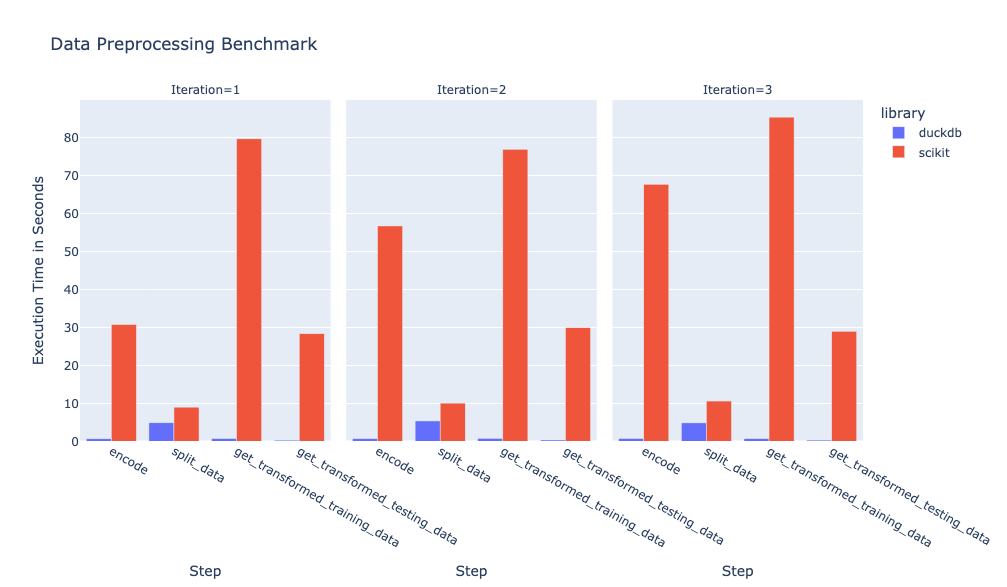
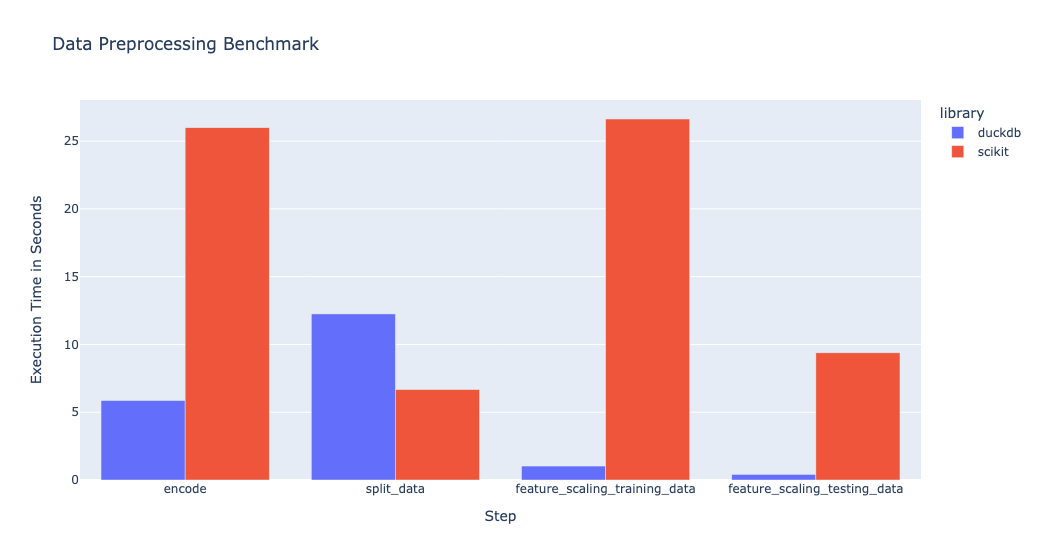
fix: refactor benchmark chapter

diff --git a/_posts/2025-08-15-ml-data-preprocessing.md b/_posts/2025-08-15-ml-data-preprocessing.md
@@ -1,6 +1,6 @@
 ---
 layout: post
-title: "Data Preprocessing for Machine Learning with DuckDB"
+title: "Basic Feature Engineering with DuckDB"
 author: Petrica Leuca
 thumb: "/images/blog/thumbs/duckdb-scikit-learn-2.png"
 image: "/images/blog/thumbs/duckdb-scikit-learn-2.svg"
@@ -459,7 +459,68 @@ Filling missing data should be done before feature scaling.
 
 ## Benchmark
 
-Bringing the above data processing steps together, we have decided to benchmark the execution time against the data processing pipelines with `scikit-learn`. The code is available [in our blog examples repository](https://github.com/duckdb/duckdb-blog-examples/tree/main/ml_data_preprocessing). The figure below shows the execution times on a MacBook Pro with 16 GB:
+Bringing the above data processing steps together, we have decided to benchmark the execution time against the `scikit-learn` data preprocessing pipelines.
+The code is available [in our blog examples repository](https://github.com/duckdb/duckdb-blog-examples/tree/main/ml_data_preprocessing).
+
+In `scikit-learn`, data preprocessing is done through transformers and pipelines.
+A transformer is a class that implements the `fit` and `transform` methods, while a pipeline is a sequence of transformers that are applied to the data in a specific order.
+Unless specified otherwise, each step of the pipeline returns, in numpy arrays, only the result of the transformation step.
+Because in DuckDB we transform the data through SQL expressions, we can inspect the full data set after each step.
+Therefore, in our benchmark, the `scikit-learn` data preprocessing steps include the following transformations:
+
+- the [output of the transformation step](https://scikit-learn.org/stable/auto_examples/miscellaneous/plot_set_output.html) is set to `pandas`;
+- all the columns are passed through the transformation step, by setting `remainder='passthrough'`.
+
+```python
+from sklearn.pipeline import Pipeline
+from sklearn.impute import SimpleImputer
+from sklearn.preprocessing import StandardScaler, MinMaxScaler, RobustScaler
+from sklearn.compose import ColumnTransformer
+
+
+def scikit_feature_scaling_training_data(x_train):
+    impute_missing_data = Pipeline(
+        [
+            ("imputer", SimpleImputer(strategy="mean")),
+            ("scaler", MinMaxScaler(copy=False)),
+        ]
+    )
+
+    scaling_steps = ColumnTransformer(
+        [
+            (
+                "ss",
+                StandardScaler(copy=False),
+                ["velocity_score"]
+            ),
+            (
+                "minmax_time_since_last_transaction",
+                impute_missing_data,
+                ["time_since_last_transaction"],
+            ),
+            ( 
+                "minmax",
+                MinMaxScaler(copy=False),
+                ["spending_deviation_score"]
+            ),
+            (
+                "rs",
+                RobustScaler(copy=False),
+                ["amount"]
+            ),
+        ],
+        remainder="passthrough",
+        verbose_feature_names_out=False,
+    )
+
+    scaling_steps.set_output(transform="pandas")
+    scaling_steps.fit(x_train)
+
+    return scaling_steps, scaling_steps.transform(x_train)
+```
+
+The figure below shows the execution times on a MacBook Pro with 16 GB,
+demonstrating that DuckDB offers a significant performance improvement over `scikit-learn` for the data preprocessing steps.
 
 <div align="center" style="margin:10px">
     <a href="/images/blog/ml-data-preprocessing/ml_data_preprocessing.png">
@@ -471,9 +532,7 @@ Bringing the above data processing steps together, we have decided to benchmark 
     </a>
 </div>
 
-It is important to note that, because DuckDB makes available the full data to be inspected in between processing steps, we have included in the benchmark the conversion of `scikit-learn` data preprocessing results into Pandas dataframes.
-
-In the script `reconcile_results.py`, the results between the DuckDB and `scikit-learn` are reconciled, demonstrating that both implementations produce the same results.
+> In the script `reconcile_results.py`, the results between the DuckDB and `scikit-learn` are reconciled, demonstrating that both implementations produce the same results.
 
 ## Conclusion
 
